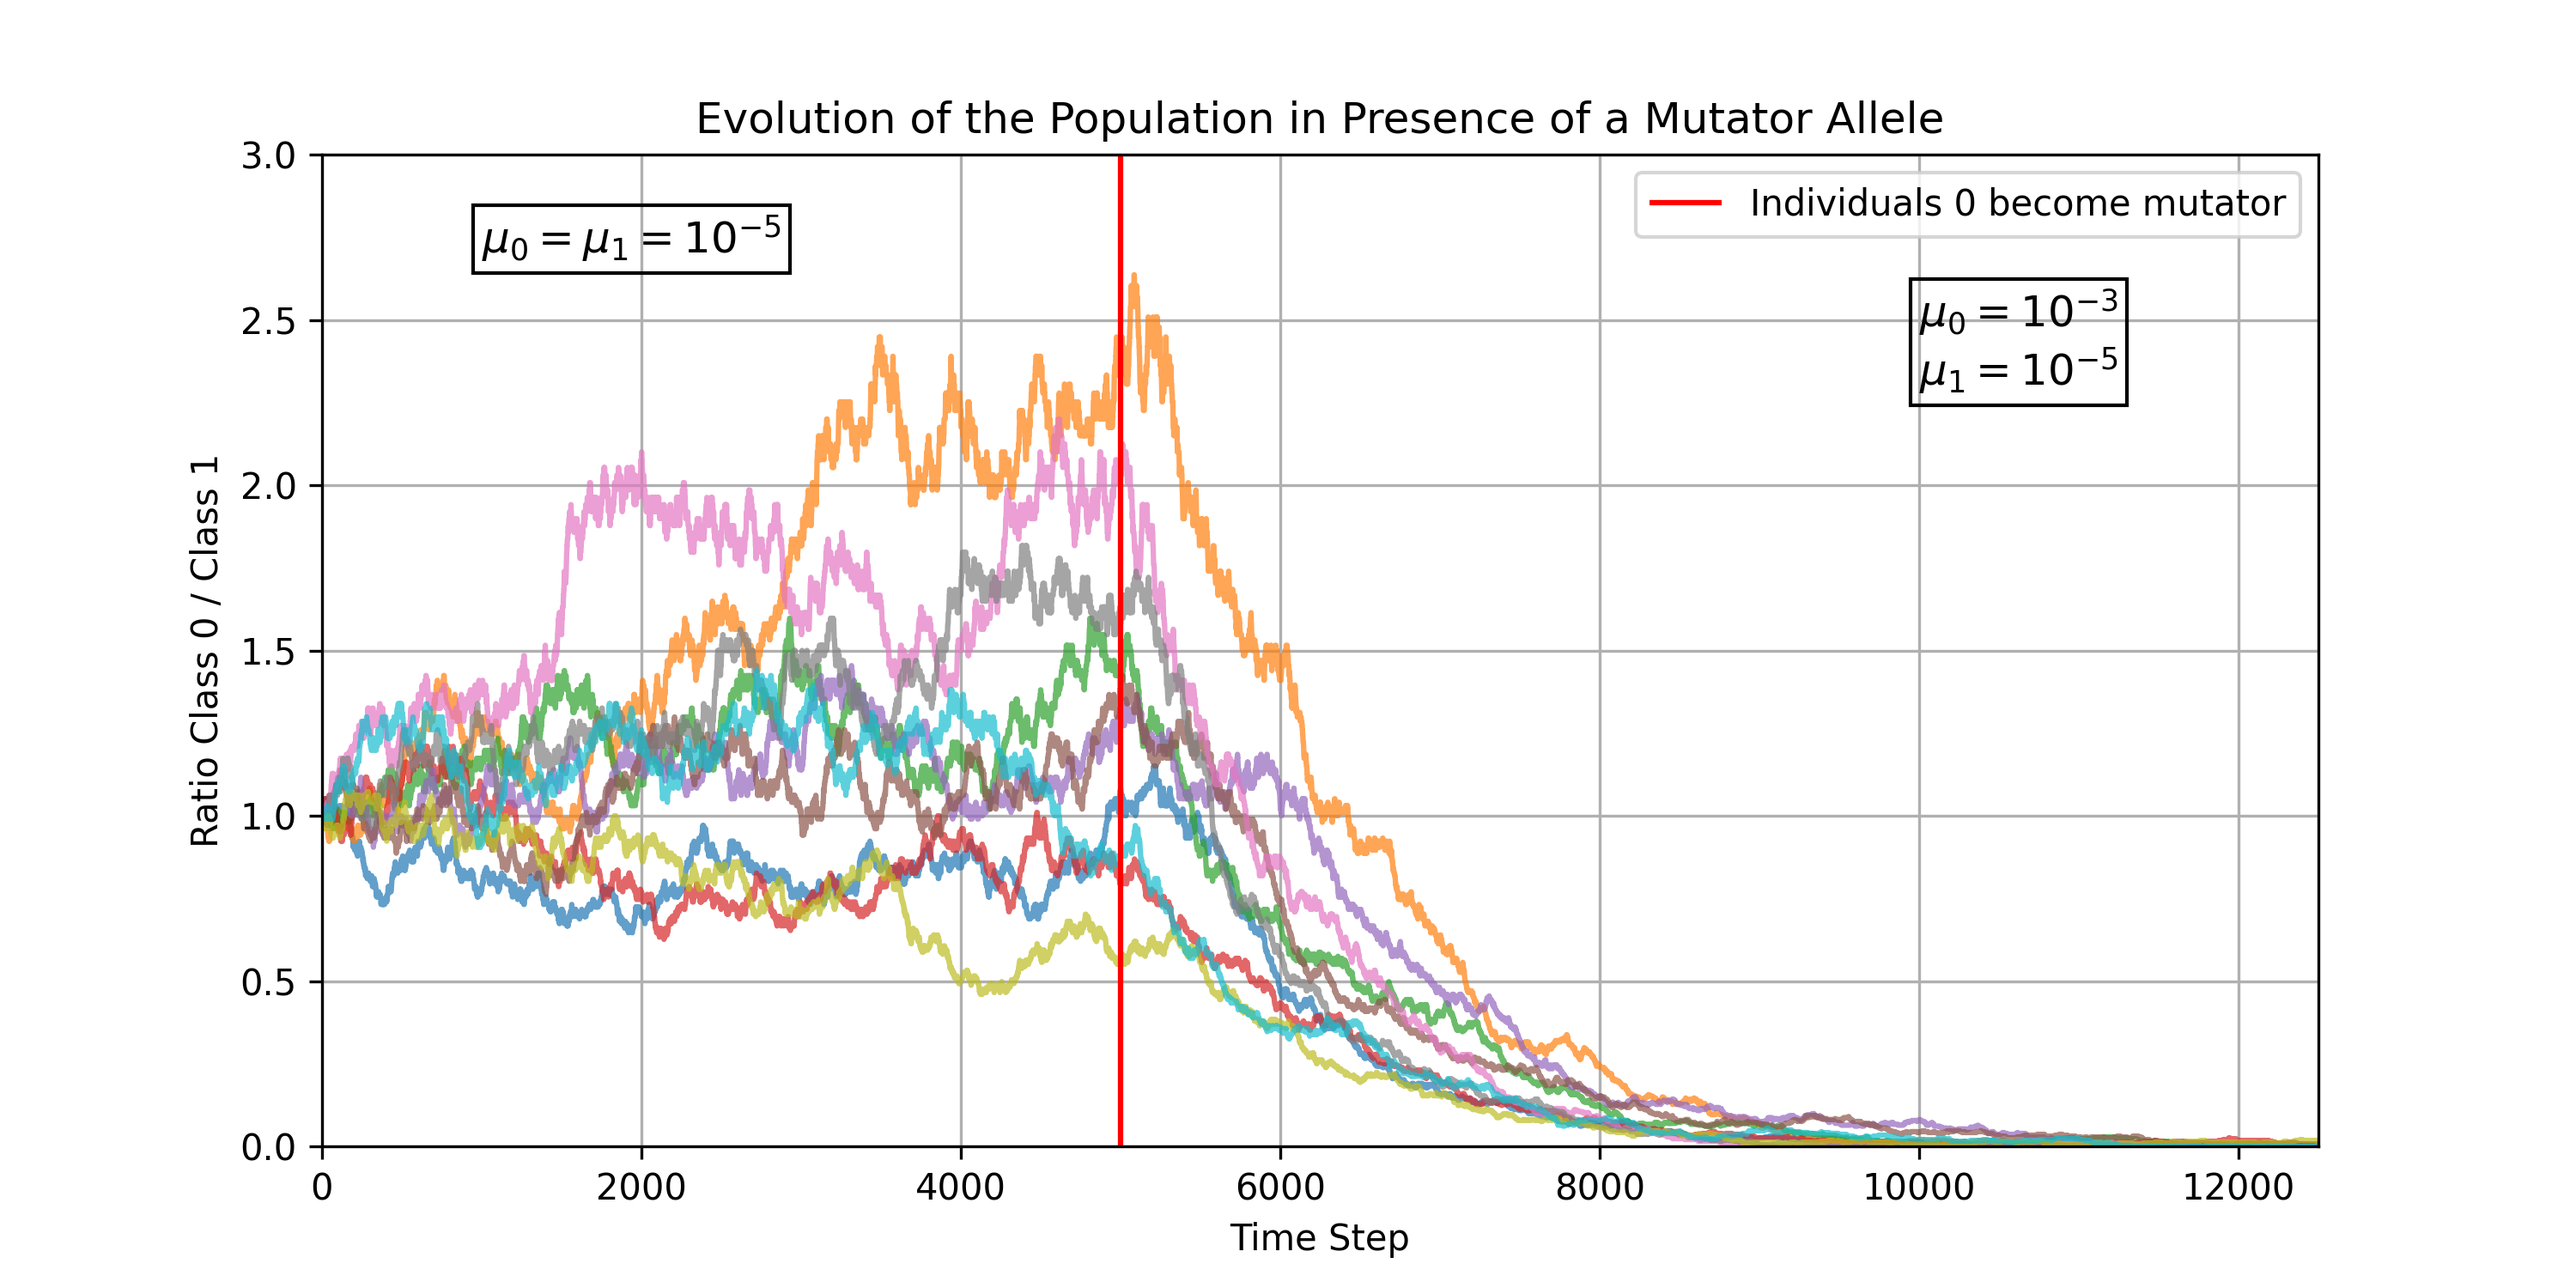
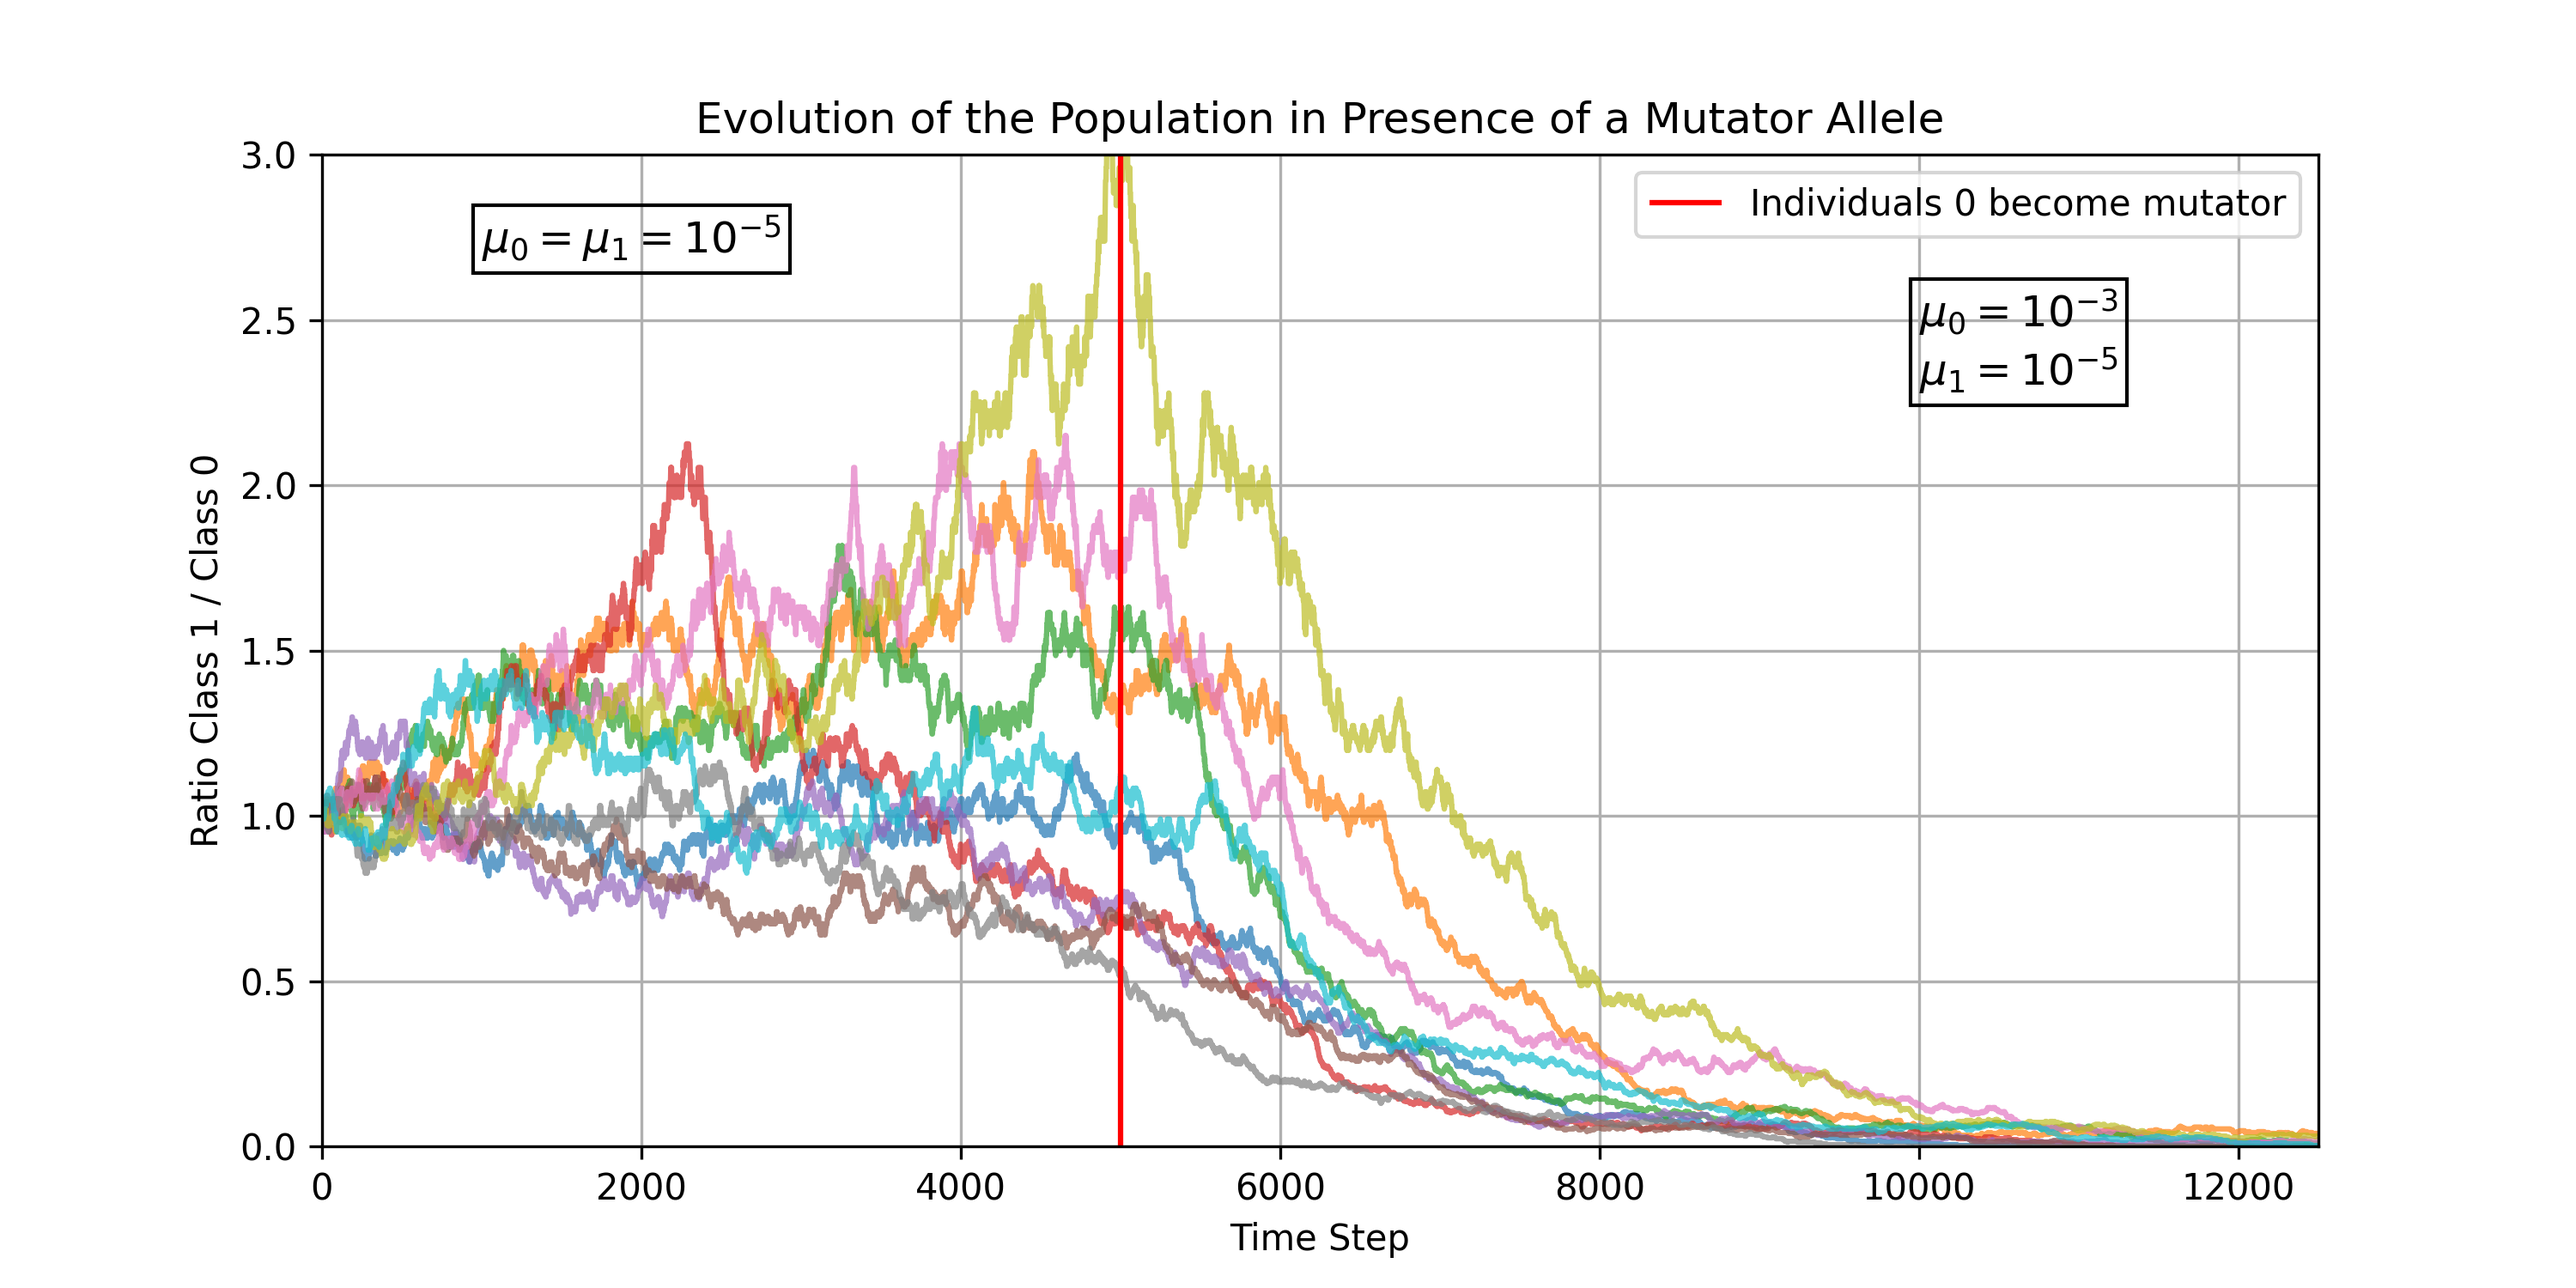
correct graph

Changed region(s): [[0.124, 0.2147, 0.899, 0.8893], [0.403, 0.1227, 0.434, 0.184], [0.062, 0.3373, 0.093, 0.368]]

diff --git a/plot_mutator.py b/plot_mutator.py
@@ -13,12 +13,12 @@ plt.figure(figsize=(10, 5))
 
 for exp in experiments:
     exp_data = df[df["Experiment"] == exp]
-    ratio = exp_data["Class 0"] / (exp_data["Class 1"] + 1e-6)  # Avoid division by zero
+    ratio = exp_data["Class 1"] / (exp_data["Class 0"] + 1e-6)  # Avoid division by zero
     plt.plot(exp_data["Time Step"], ratio, linestyle="solid", alpha=0.7)
 
 # Customization
 plt.xlabel("Time Step")
-plt.ylabel("Ratio Class 0 / Class 1")
+plt.ylabel("Ratio Class 1 / Class 0")
 plt.title("Evolution of the Population in Presence of a Mutator Allele")
 plt.ylim(0, 3)
 plt.xlim(0, 12500)
